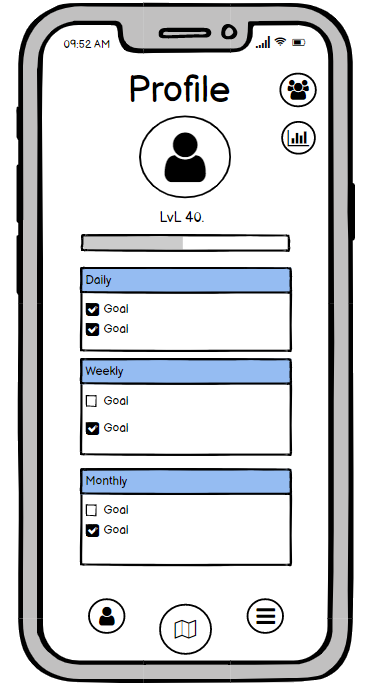
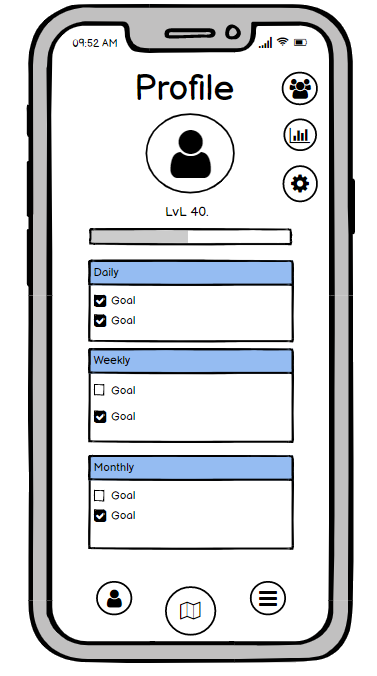
Fiksa settings og profil appen bildet

diff --git a/app.html b/app.html
@@ -105,6 +105,8 @@
                         * Daily, weekly and monthly challenges.
                     <br>
                         <br>
+                        * A settings button. This gives the user the option to restrict the information that we
+                        collect,  add a profile picture, see their information and an option to delete their account.
                     </p>
                 </div>
                 <div tabindex="21" class="pagepicture">
